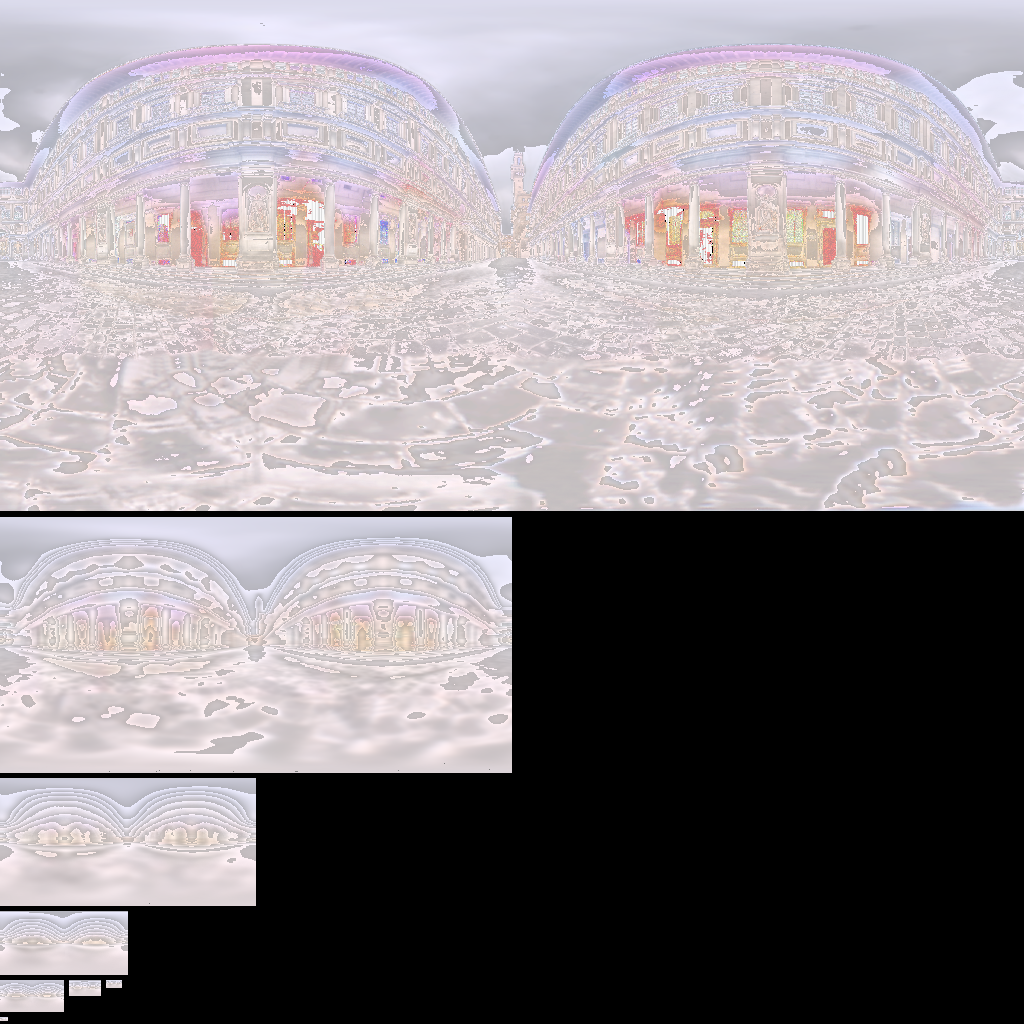
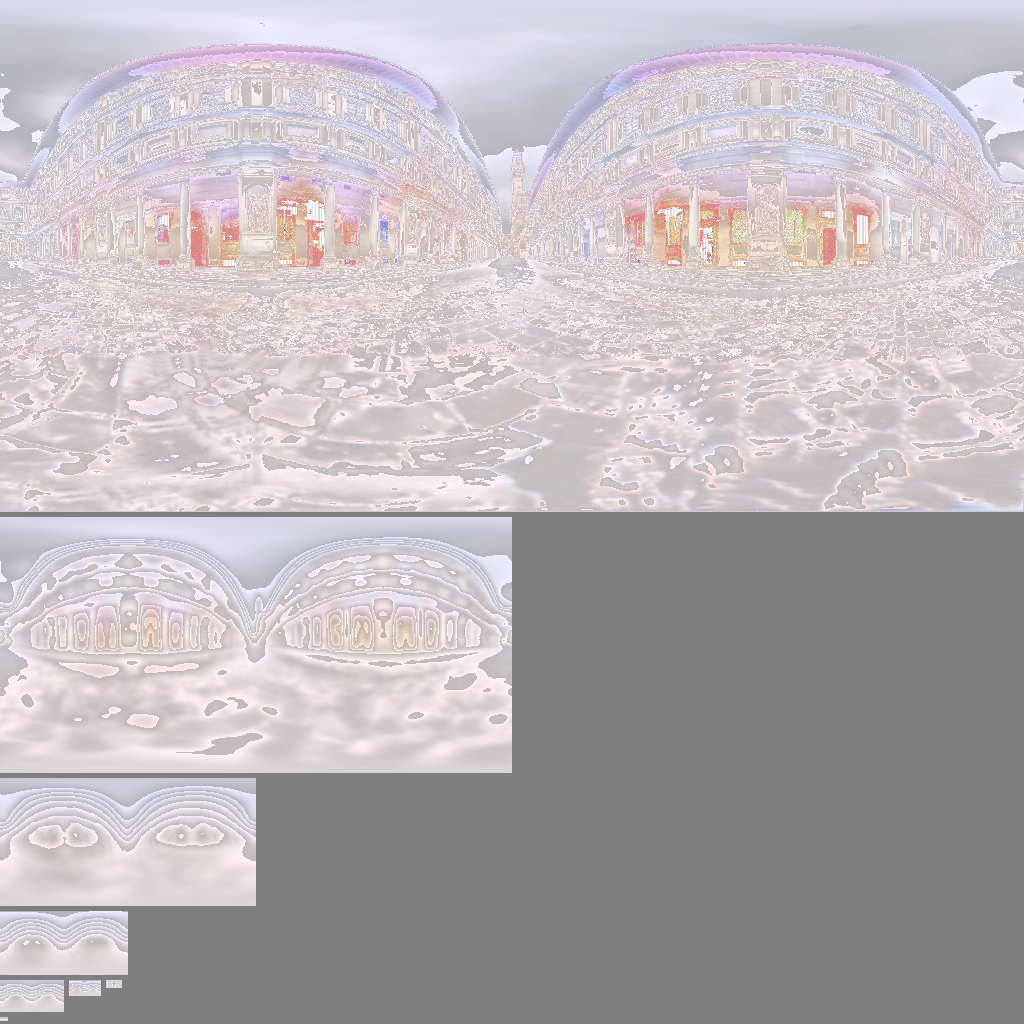
bug fix in IBL tool. Mips IBL images are modified

diff --git a/ScienceLab/public_html/simulations/friction/Scene_StaticFriction_1.html b/ScienceLab/public_html/simulations/friction/Scene_StaticFriction_1.html
@@ -220,8 +220,8 @@
                 normalTexture.wrapS = THREE.RepeatWrapping;
                 normalTexture.wrapT = THREE.RepeatWrapping;
 
-                var specularTexture = THREE.ImageUtils.loadTexture("../../img/iron03.jpg");
-                var roughnessTexture = THREE.ImageUtils.loadTexture("../../img/roughness_iron.jpg");
+                var specularTexture = THREE.ImageUtils.loadTexture("../../img/al_scratch.jpg");
+                var roughnessTexture = THREE.ImageUtils.loadTexture("../../img/roughness_al_scratch.jpg");
                 roughnessTexture.wrapS = THREE.RepeatWrapping;
                 roughnessTexture.wrapT = THREE.RepeatWrapping;
                 specularTexture.wrapS = THREE.RepeatWrapping;
@@ -239,7 +239,7 @@
                 clonedUniforms1['NormalMap'].value = normalTexture;
                 clonedUniforms1['Roughness'].value = 0.0;
                 clonedUniforms1['SpecularColor'].value = new THREE.Vector4(0.0,0.0,0.0,1.0); ;
-                clonedUniforms1['DiffuseColor'].value = new THREE.Vector4(0.9,0.02,0.02,1.0); ;
+                clonedUniforms1['DiffuseColor'].value = new THREE.Vector4(0.0,0.2,0.02,1.0); ;
                 clonedUniforms1['RoughnessMap'].value = roughnessTexture;                                
 
                 sphereMaterial = new THREE.ShaderMaterial(

diff --git a/ScienceLab/public_html/js/IBL/MaterialLibrary.js b/ScienceLab/public_html/js/IBL/MaterialLibrary.js
@@ -59,8 +59,8 @@ var fragmentShaderIBL = "precision highp float;\n\
    }\n\
    \n\
    vec3 tonemap(vec3 RGB) {\n\
-      float LogAvgLum = 0.32;\n\
-      float key = 0.98;\n\
+      float LogAvgLum = 0.32;//0.08\n\
+      float key = 0.78;\n\
       float Ywhite = 1e1;\n\
       Ywhite *= Ywhite;\n\
       float sat = 1.0;\n\
@@ -69,7 +69,7 @@ var fragmentShaderIBL = "precision highp float;\n\
       float Yd = Y * ( 1.0 + Y/Ywhite)/( 1.0 + Y) ;\n\
       return Yd * pow(RGB/Ylum ,vec3(sat, sat, sat));\n\
    }\n\
-   vec4 SampleDiffuseContribution(vec4 difCol,vec3 direction, float roughness) {\n\
+   vec4 SampleDiffuseContribution(vec4 difCol,vec3 direction) {\n\
      vec4 texCoordSetSample = TextureCoordSetArray[7];\n\
      float phi = atan(direction.z, direction.x); \n\
      phi = phi < 0.0 ? 2.0*PI + phi : phi;\n\
